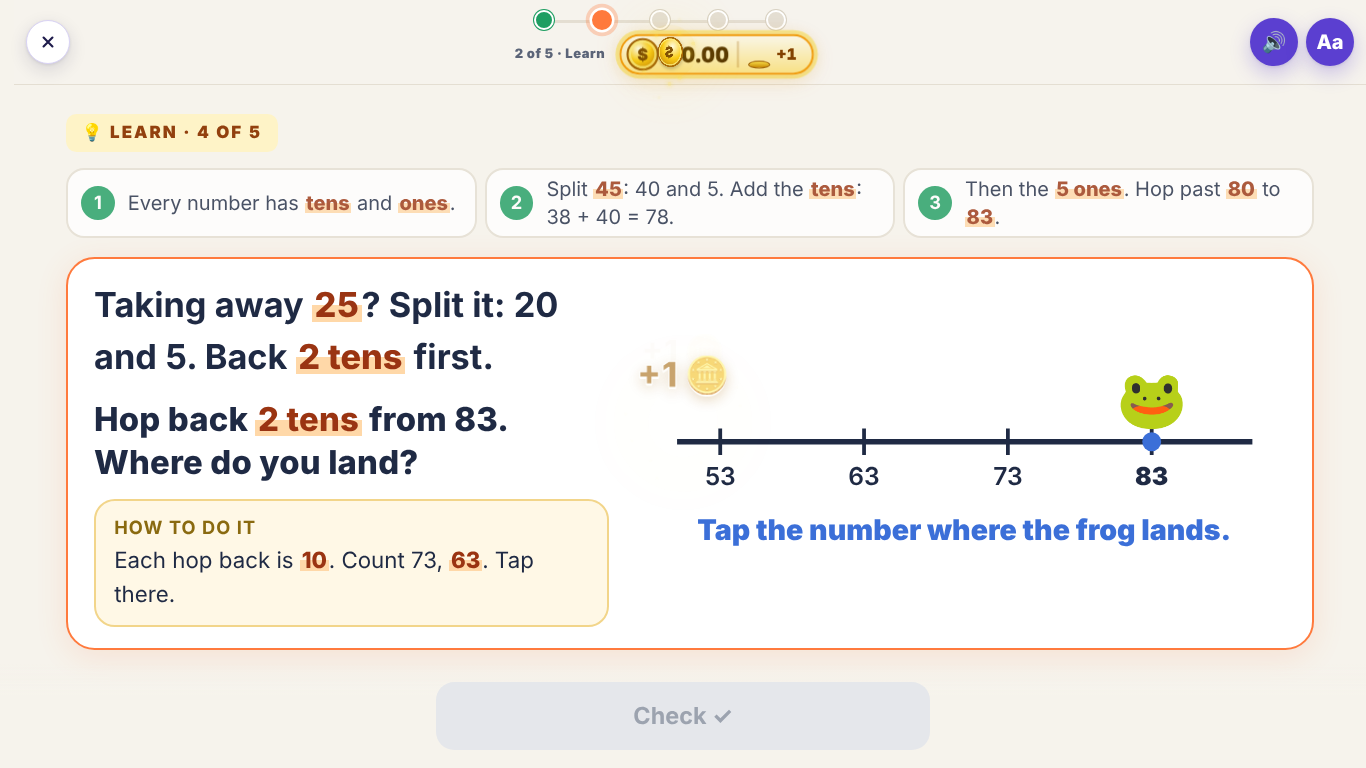
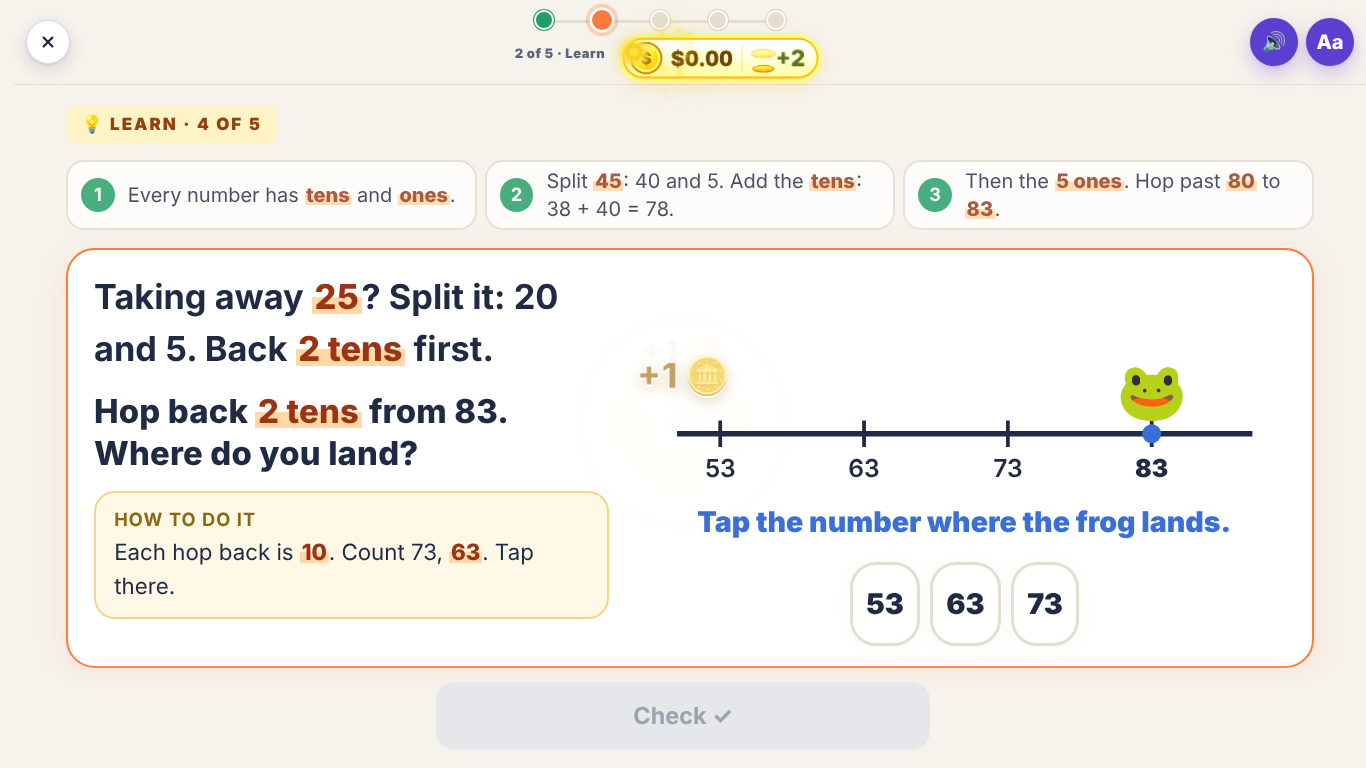
Tap-to-land: big number buttons under the line (every target 44 px or more); fresh pictures
Claude-Session: https://claude.ai/code/session_015qpxB9anh6EkNUEJ97DHM5

diff --git a/src/OneBiteKit.html b/src/OneBiteKit.html
@@ -96,10 +96,10 @@ T.hop={ check:true,
     g+='<circle cx="'+sx(d.start)+'" cy="86" r="5" fill="#3B6FD8"/>';
     for(let k=0;k+1<s.path.length;k++){ const x1=sx(s.path[k]), x2=sx(s.path[k+1]), mx=(x1+x2)/2; g+='<path d="M'+x1+' 80 Q'+mx+' 46 '+x2+' 80" fill="none" stroke="#FF7A3D" stroke-width="3" stroke-dasharray="5 4"/>'; }
     g+='<text x="'+sx(s.pos)+'" y="74" font-size="30" text-anchor="middle">🐸</text>';
-    if(d.land){ const cw=(W-2*pad)/Math.max(1,n); for(let v=t0;v<=r[1]+1e-9;v+=u) if(v!==d.start) g+='<rect data-obk="land" data-k="'+v+'" x="'+(sx(v)-cw/2)+'" y="40" width="'+cw+'" height="72" fill="'+(v===s.pos?'rgba(255,122,61,.18)':'transparent')+'" style="cursor:pointer" role="button" aria-label="land on '+v+'"/>'; }
     g+='</svg>';
     const hops=Math.round(Math.abs(s.pos-d.start)/u);
-    if(d.land) return g+'<p class="obk-count sm" aria-live="polite">'+(s.pos===d.start?'Tap the number where the frog lands.':'Hops: '+hops)+'</p>';
+    if(d.land){ let bt=''; for(let v=t0;v<=r[1]+1e-9;v+=u) if(v!==d.start) bt+='<button class="obk-btn'+(v===s.pos?' obk-pri':'')+'" data-obk="land" data-k="'+v+'" aria-label="the frog lands on '+v+'">'+v+'</button>';   /* big number buttons: every target 44 px or more */
+      return g+'<p class="obk-count sm" aria-live="polite">'+(s.pos===d.start?'Tap the number where the frog lands.':'Hops: '+hops)+'</p><div class="obk-row obk-land">'+bt+'</div>'; }
     return g+'<p class="obk-count sm" aria-live="polite">Hops: '+hops+(c.guided?' of '+Math.round(Math.abs(d.add)/u):'')+'</p>'+
       '<div class="obk-row"><button class="obk-btn" data-obk="back" aria-label="Hop back"'+(s.pos-u<r[0]-1e-9?' disabled':'')+'>◀ Hop</button><button class="obk-btn obk-pri'+(c.guided&&hops<Math.abs(d.add)/u&&d.add>0?' obk-pulse':'')+'" data-obk="fwd" aria-label="Hop forward"'+(s.pos+u>r[1]+1e-9?' disabled':'')+'>Hop ▶</button></div>'; },
   tap(d,s,a,k){ const r=T.hop.rng(d), u=T.hop.u(d); let np=s.pos;
@@ -343,6 +343,7 @@ OBK.css=function(){ if(document.getElementById('obk-css')) return; const s=docum
 .obk-count{ font-size:calc(var(--fs) * 1.6); font-weight:900; color:#3B6FD8; margin:0; min-width:56px; text-align:center; } .obk-count.sm{ font-size:var(--fs); }
 .obk-btn{ min-height:var(--tap); min-width:var(--tap); padding:8px 20px; border-radius:20px; border:3px solid #E4DED2; background:#fff; font-size:var(--fs); font-weight:900; display:inline-flex; align-items:center; gap:8px; justify-content:center; box-shadow:0 4px 0 #E4DED2; }
 .obk-btn:active{ transform:translateY(3px); box-shadow:0 1px 0 #E4DED2; } .obk-btn:disabled{ opacity:.4; }
+.obk-land{ gap:8px; } .obk-land .obk-btn{ padding:6px 10px; min-width:52px; }
 .obk-btn.obk-pri{ border-color:#3B6FD8; color:#2A55B0; box-shadow:0 4px 0 #C9D7F5; }
 .obk-hear.big{ font-size:44px; width:96px; height:96px; border-radius:50%; padding:0; }
 .obk-opts{ display:flex; gap:12px; justify-content:center; flex-wrap:wrap; width:100%; }
